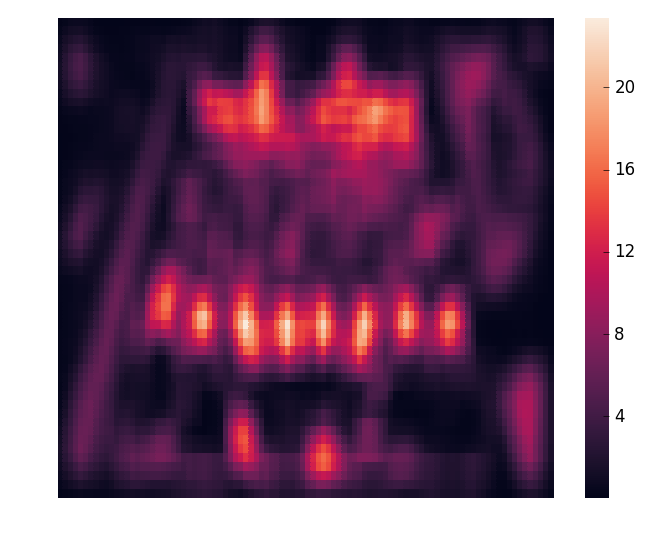
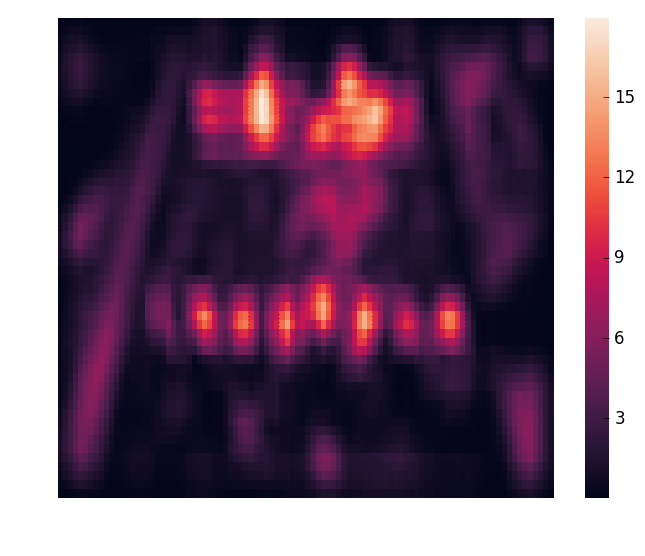
Added heatmaps testing different sliding window configurations

diff --git a/main2.py b/main2.py
@@ -22,7 +22,23 @@ import seaborn as sns
 # mpl.use('GTKAgg')
 import matplotlib.pyplot as plt
 
+class Model(object):
 
+	def __init__(self, model_path):
+		self.session = tf.Session()
+
+		with tf.gfile.FastGFile(model_path, 'rb') as f:
+			graph_def = tf.GraphDef()
+			graph_def.ParseFromString(f.read())
+			_ = tf.import_graph_def(graph_def, name='graph1')
+
+		self.softmax_tensor = self.session.graph.get_tensor_by_name('graph1/final_result:0')
+
+	def predict(self, image_data):
+		# image_data = tf.gfile.FastGFile(image_path, 'rb').read()
+		# predictions =  self.session.run(self.softmax_tensor, {'graph1/DecodeJpeg/contents:0': image_data})
+		predictions = self.session.run(self.softmax_tensor, {'graph1/DecodeJpeg:0': image_data})
+		return predictions
 
 # Natural human sorting
 def atoi(text):
@@ -98,20 +114,25 @@ def sliding_window(image, stepSize, windowSize):
 		for x in xrange(0, image.shape[1], stepSize):
 			yield(x, y, image[y:y+windowSize[1], x:x+windowSize[0]])
 
-def create_heatmap(image, stepSize, windowSize):
+def create_heatmap(image, stepSize, windowSize, model_path):
 
 	heatmap = np.zeros((image.shape[0], image.shape[1], 6))
 	countmap = np.zeros((image.shape[0], image.shape[1]))
 
+	model = Model(model_path)
+
 	for y in range(0, image.shape[0], stepSize):
 		for x in range(0, image.shape[1], stepSize):
 			window = image[y:y+windowSize[1], x:x+windowSize[0]]
-			if window.shape[0] != windowSize[0] or \
-							window.shape[1] != windowSize[1]:
+			if window.shape[1] != windowSize[0] or \
+							window.shape[0] != windowSize[1]:
 				continue
 
-			cv2.imwrite('window.jpeg', window)
-			predictions = label_image('window.jpeg')
+			# cv2.imwrite('window.jpeg', window)
+			# predictions = label_image('window.jpeg')
+			# predictions = model.predict('window.jpeg')
+			window = np.array(window)
+			predictions = model.predict(window)
 
 			# print check
 			# # show steps
@@ -124,7 +145,7 @@ def create_heatmap(image, stepSize, windowSize):
 			# # cv2.destroyAllWindows()
 			# raw_input("Press Enter to continue")
 
-			os.remove('window.jpeg')
+			# os.remove('window.jpeg')
 
 			for n in range(windowSize[1]):
 				for m in range(windowSize[0]):
@@ -135,14 +156,14 @@ def create_heatmap(image, stepSize, windowSize):
 
 	return heatmap, countmap
 
-def visualise_heatmap(imgpath):
-	window_x = 100
-	window_y = 100
+def visualise_heatmap(imgpath, model_path):
+	window_x = 90
+	window_y = 120
 	stepSize = 20
 	print imgpath
 	img = cv2.imread(imgpath)
 
-	heatmap, countmap = create_heatmap(img, stepSize, (window_x, window_y))
+	heatmap, countmap = create_heatmap(img, stepSize, (window_x, window_y), model_path)
 
 	# heatmap = heatmap / np.linalg.norm(heatmap)
 
@@ -154,25 +175,21 @@ def visualise_heatmap(imgpath):
 
 	print "at heatmap creation"
 
-	ax = sns.heatmap(pawnmap)
+	ax = sns.heatmap(pawnmap, cbar = False)
 	plt.axis('off')
-	plt.savefig(imgpath[18:39]+".png", bbox_inches='tight')
+	plt.savefig(imgpath[18:39]+"_20_90120.png", bbox_inches='tight')
 	#plt.show()
 
 # while result == "":
 
 	# colour_img, img_with_matches, img_with_homography, points = chessboard_homography()
 
-with tf.gfile.FastGFile("retrained_graph.pb", 'rb') as f:
-	graph_def = tf.GraphDef()
-	graph_def.ParseFromString(f.read())
-	_ = tf.import_graph_def(graph_def, name='graph1')
-
 #imgpath = 'kinect_images/top_down/start/front_black/camera_image1.jpeg'
+model_path = "retrained_graph.pb"
 
-imgpaths = glob.glob("kinect_images/use/top_angle_front_black.jpeg")
+imgpaths = glob.glob("kinect_images/use/top_angle_front_white.jpeg")
 for path in imgpaths:
-	visualise_heatmap(path)
+	visualise_heatmap(path, model_path)
 
 
 # print img.shape
